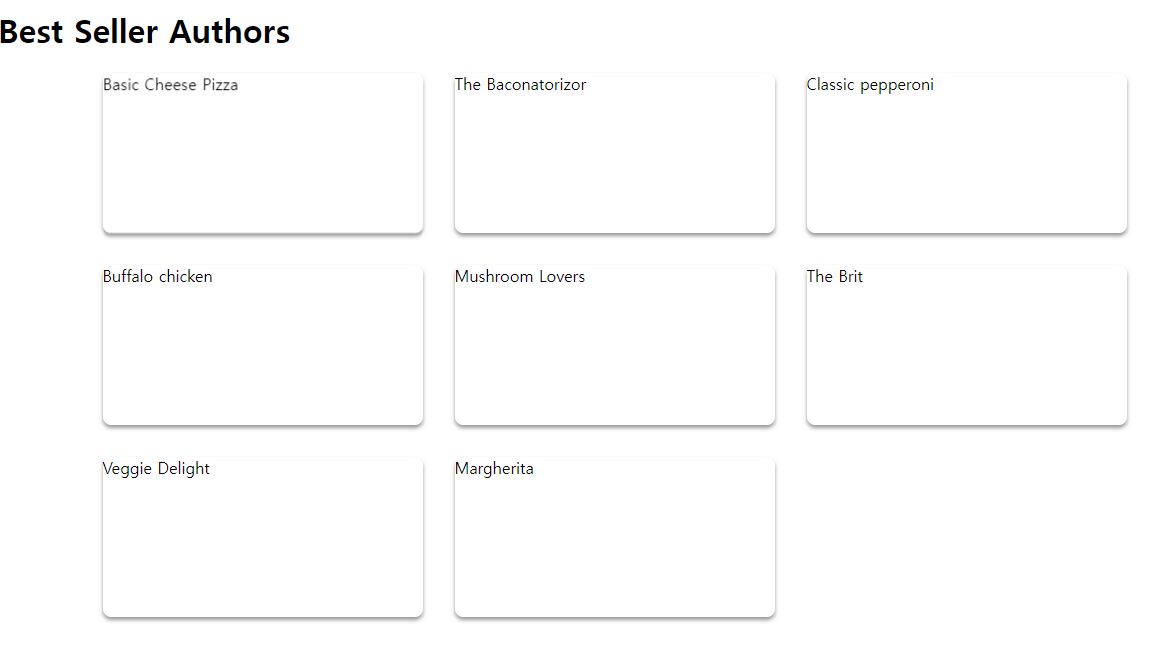
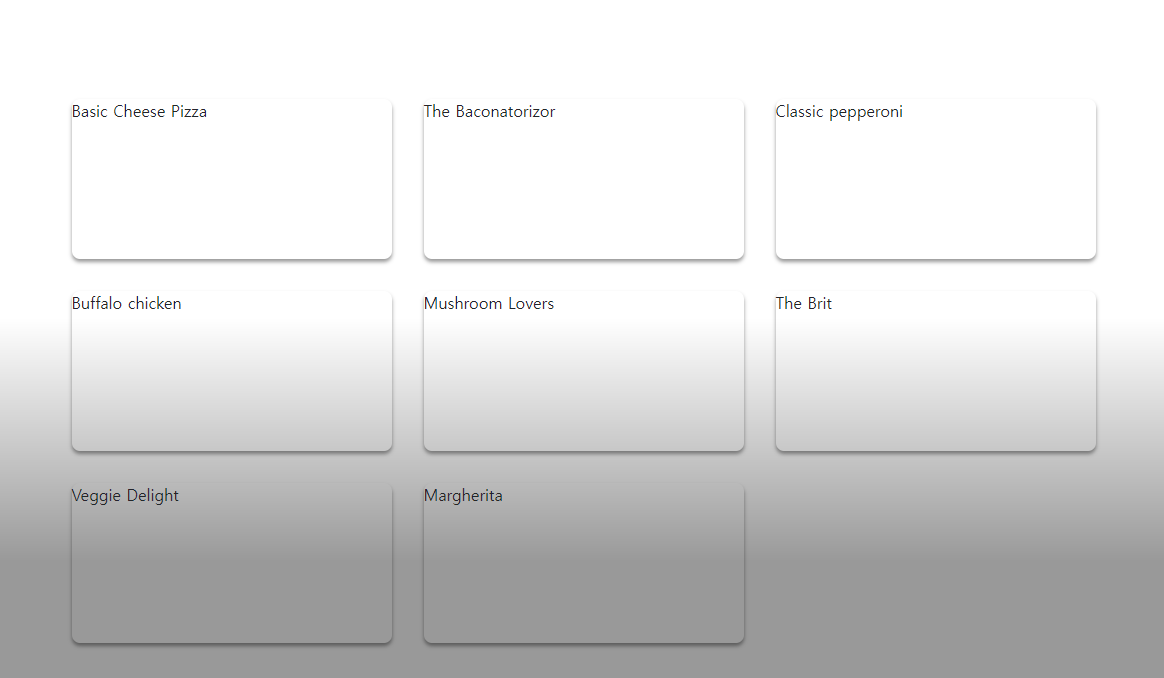
01-components 완성

diff --git a/save-points/01-components/src/components/Header.tsx b/save-points/01-components/src/components/Header.tsx
@@ -1,10 +1,6 @@
-import { useState } from "react";
 import { NavLink } from "react-router-dom";
-import styled, { css } from "styled-components";
+import styled from "styled-components";
 
-interface NavTabProps {
-  active?: boolean; // active 프롭을 선택적으로 사용하도록 정의
-}
 const TopBar = styled.div`
   height: 5rem;
   background-color: rgb(192, 0, 0);
@@ -31,7 +27,7 @@ const Logo = styled(NavLink)`
     width: 9rem;
   }
 `;
-const NavTab = styled(NavLink)<NavTabProps>`
+const NavTab = styled(NavLink)`
   margin: 0;
   padding: 0.3rem 1.8rem;
   display: inline-block;

diff --git a/docs/00-get-started.md b/docs/00-get-started.md
@@ -23,7 +23,20 @@ App.tsx 파일을 아래와 같이 수정합니다.
 ```tsx
 import styled from "styled-components";
 import { pizzas } from "./db";
-
+// Container와 Main은 Blazor에서 옮기면서 기존 설정을 유지한 것입니다.
+const Container = styled.div`
+  display: flex;
+  height: 100%;
+  z-index: 1;
+  background-color: white;
+`;
+const Main = styled.div`
+  flex-grow: 1;
+  overflow-y: auto;
+  background: linear-gradient(rgba(0, 0, 0, 0) 40%, rgba(0, 0, 0, 0.4) 80%);
+  padding: 1.5rem !important;
+`;
+// -------------------------------
 const PizzaCards = styled.ul`
   display: grid;
   grid-template-columns: repeat(auto-fill, 20rem);
@@ -39,6 +52,7 @@ const PizzaItem = styled.li`
   list-style-type: none;
   box-shadow: 0 3px 4px rgba(0, 0, 0, 0.4);
   transition: 0.1s ease-out;
+
   &:hover {
     transform: scale(1.02);
   }
@@ -47,22 +61,28 @@ const PizzaItem = styled.li`
 function App() {
   return (
     <div>
-      <h1>Best Seller Authors</h1>
-      <PizzaCards>
-        {pizzas.map((pizza) => (
-          <PizzaItem key={pizza.id}>{pizza.name}</PizzaItem>
-        ))}
-      </PizzaCards>
+      <Container>
+        <Main>
+          <PizzaCards>
+            {pizzas.map((pizza) => (
+              <PizzaItem key={pizza.id}>{pizza.name}</PizzaItem>
+            ))}
+          </PizzaCards>
+        </Main>
+      </Container>
     </div>
   );
 }
 
 export default App;
 ```
-아래 화면을 보시면 아직 이미지나 글자가 원하는대로 출력되지 않고 있네요.
-![Alt text](readme_images/image.png)
+아래 화면을 보시면 Pizza 메뉴 카드가 잘 정돈되어 나옵니다.
 
-App.tsx 파일에 다음을 추가합니다.
+![Alt text](readme_images/image.png)
+---
+<br>
+
+이제 피자명을 더 잘 보이게 하고 이미지와 가격을 보기좋게 만들기 위해 App.tsx 파일에 다음을 추가합니다.
 ```tsx
 interface PizzaItemProps {
   imgUrl: string;
@@ -85,7 +105,10 @@ function App() {
 }
 ```
 아래 화면을 보시면 이미지는 추가되어 잘 보입니다.
+
 ![Alt text](readme_images/image-2.png)
+---
+<br>
 
 이제 피자메뉴에 피자이름, 설명, 가격을 표시하도록 하겠습니다.
 ```tsx
@@ -131,26 +154,156 @@ const PizzaItem = styled.li<PizzaItemProps>`
   function App() {
   return (
     <div>
-      <h1>Best Seller Authors</h1>
-      <PizzaCards>
-        {pizzas.map((pizza) => (
-          <PizzaItem key={pizza.id} imgUrl={pizza.imageUrl}>
-            <div className="pizza-info">
-              <div className="pizza-title">{pizza.name}</div>
-              <div className="pizza-description">{pizza.description}</div>
-              <div className="pizza-price">£{pizza.basePrice}</div>
-            </div>
-          </PizzaItem>
-        ))}
-      </PizzaCards>
+      <Container>
+        <Main>
+          <PizzaCards>
+            {pizzas.map((pizza) => (
+              <PizzaItem key={pizza.id} imgUrl={pizza.imageUrl}>
+                <div className="pizza-info">
+                  <div className="pizza-title">{pizza.name}</div>
+                  <div className="pizza-description">{pizza.description}</div>
+                  <div className="pizza-price">£{pizza.basePrice}</div>
+                </div>
+              </PizzaItem>
+            ))}
+          </PizzaCards>
+        </Main>
+      </Container>
     </div>
   );
 }
   ```
+아래 화면처럼 잘 렌더링되고 있나요?
+
+![Alt text](readme_images/image-3.png)
+---
+<br>
 
 # 상단에 메뉴 만들기
+## Header.tsx 만들기
+피자 메뉴 목록을 만들었으니 이번에는 피자 상단 메뉴를 만들어 보도록 하겠습니다.
+상단 메뉴는 `components`라는 폴더 안에 `Header.tsx`라는 파일을 만들어서 불러오겠습니다.
 
-# Header.tsx 만들기
-상단에 메뉴를 표시할 header를 생성합니다.
+`..\src\comoponents\Header.tsx` 파일을 생성해 주세요.
 
-`..\src\components\Header.tsx`
+먼저 `Header`에 적용할 `NavLink`와 `sytled`를 `import` 해줍니다.<br>
+[NavLink](https://reactrouter.com/en/main)는 `Blazor`의 `NavLink`와 비슷한 기능을 하는 것으로 보입니다.
+`react-router-dom`의 `Link`와 같은데, `active` 상태인지 `pending` 상태인지 알고 있는 특별한 종류의 `Link`입니다. 반드시 링크를 확인하고 `NavLink`에 대해서 공부해 두세요.
+```tsx
+import { NavLink } from "react-router-dom";
+import styled from "styled-components";
+```
+
+다음으로 상단에 적용할 `TopBar`를 CSS-in-JS 방식으로 만들어 줍니다.
+```tsx
+const TopBar = styled.div`
+  height: 5rem;
+  background-color: rgb(192, 0, 0);
+  // 배경 이미지에 그라디언트를 적용합니다.
+  background-image: linear-gradient(
+    rgba(0, 0, 0, 0.3) 0%,
+    rgba(0, 0, 0, 0.25) 25%,
+    rgba(0, 0, 0, 0) 70%
+  );
+  display: flex;
+  align-items: stretch;
+  color: white;
+  box-shadow: 0 1px 3px rgba(0, 0, 0, 0.4);
+  padding: 0 3rem;
+  position: fixed;
+  top: 0;
+  right: 0;
+  left: 0;
+  z-index: 1030;
+`;
+```
+여기는 로고가 들어갈 자리 입니다.
+```tsx
+const Logo = styled(NavLink)`
+  display: flex;
+  > img {
+    margin-right: 3rem;
+    width: 9rem;
+  }
+`;
+```
+여기는 메뉴 목록이 들어갈 자리 입니다.
+```tsx
+const NavTab = styled(NavLink)`
+  margin: 0;
+  padding: 0.3rem 1.8rem;
+  display: inline-block;
+  background-color: rgba(0, 0, 0, 0.1);
+  display: flex;
+  flex-direction: column;
+  align-items: center;
+  justify-content: center;
+  font-size: 0.9rem;
+  color: white;
+  position: relative;
+  text-transform: uppercase;
+  transition: 0.2s ease-out;
+
+  &:hover {
+    color: white;
+    text-decoration: none;
+    background-color: rgba(255, 255, 255, 0.3);
+  }
+
+  &.active {
+    background-color: rgba(255, 255, 255, 0.2);
+    color: #fff2cc;
+  }
+
+  img {
+    height: 2rem;
+    margin-bottom: 0.25rem;
+  }
+
+  &.active img {
+    filter: brightness(0) saturate(100%) invert(93%) sepia(18%) saturate(797%)
+      hue-rotate(316deg) brightness(109%) contrast(101%);
+  }
+  &.active:after {
+    content: "";
+    position: absolute;
+    bottom: -1rem;
+    z-index: 1;
+    width: 0px;
+    height: 0px;
+    border-left: 0.6rem solid transparent;
+    border-right: 0.6rem solid transparent;
+    border-top: 1rem solid rgb(205, 51, 51);
+  }
+`;
+```
+이제 `Header`를 만들어서 `export` 해주겠습니다.
+```tsx
+function Header() {
+  return (
+    <TopBar>
+      <Logo to={"/"}>
+        <img src="images/logo.svg" />
+      </Logo>
+
+      <NavTab
+        to={"/"}
+        className={({ isActive, isPending }) =>
+          isPending ? "pending" : isActive ? "active" : ""
+        }
+      >
+        <img src="images/pizza-slice.svg" />
+        <div>Get Pizza</div>
+      </NavTab>
+    </TopBar>
+  );
+}
+export default Header;
+```
+아래 화면을 보시면 상단바가 잘 적용되어 있습니다.
+![Alt text](readme_images/image-4.png)
+
+<br>
+이번 섹션은 피자 메뉴를 카드로 만들어서 적용하고, 상단바를 구성해 보았습니다.
+이제 다음 섹션으로 넘어가보도록 하겠습니다.
+
